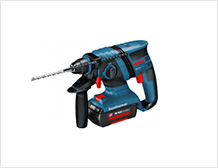
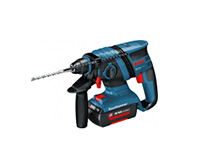
вставил картинки популярных товаров

Changed region(s): [[0.0, 0.0, 1.0, 1.0]]

diff --git a/index.html b/index.html
@@ -124,7 +124,7 @@
                 <a class="button-bookmark" href="#">В закладки</a>
               </p>
               <p class="catalog-item-image">
-                <img src="img/content/popular_items/1.jpg" width="185" height="164" alt="Перфоратор Bosch BFG 9000">
+                <img src="img/content/catalog_items/1.jpg" width="218" height="168" alt="Перфоратор Bosch BFG 9000">
               </p>
   			      <p class="old-price" aria-label="Старая цена">32500 Р.</p>
   			      <p class="price" aria-label="Текущая цена">25500 Р.</p>
@@ -138,7 +138,7 @@
               <a class="button-bookmark" href="#">В закладки</a>
             </p>
             <p class="catalog-item-image">
-              <img src="img/content/popular_items/2.jpg" width="127" height="112" alt="Перфоратор Bosch BFG 3000">
+              <img src="img/content/catalog_items/2.jpg" width="218" height="168" alt="Перфоратор Bosch BFG 3000">
             </p>
   			    <p class="old-price" aria-label="Старая цена">22500 Р.</p>
   			    <p class="price" aria-label="Текущая цена">15500 Р.</p>
@@ -152,7 +152,7 @@
               <a class="button-bookmark" href="#">В закладки</a>
             </p>
             <p class="catalog-item-image">
-                <img src="img/content/popular_items/3.jpg" width="144" height="128" alt="Перфоратор Bosch BFG 6000">
+                <img src="img/content/catalog_items/3.jpg" width="218" height="168" alt="Перфоратор Bosch BFG 6000">
             </p>
   	  		  <p class="old-price" aria-label="Старая цена">30500 Р.</p>
   		  	  <p class="price" aria-label="Новая цена">25500 Р.</p>
@@ -166,7 +166,7 @@
               <a class="button-bookmark" href="#">В закладки</a>
             </p>
             <p class="catalog-item-image">
-              <img src="img/content/popular_items/4.jpg" width="127" height="112" alt="Перфоратор Bosch BFG 2000">
+              <img src="img/content/catalog_items/4.jpg" width="218" height="168" alt="Перфоратор Bosch BFG 2000">
             </p>
   	  		  <p class="old-price visually-hidden"></p>
   		  	  <p class="price" aria-label="Текущая цена">12500 Р.</p>

diff --git a/css/style.css b/css/style.css
@@ -1136,6 +1136,10 @@ footer .wrapper {
   flex-wrap: wrap;
 }
 
+.popular-product-catalog img {
+
+}
+
 .catalog-item,
 .popular-product-item {
   position: relative;
@@ -1146,6 +1150,10 @@ footer .wrapper {
   padding-bottom: 10px;
   list-style: none;
   border: 1px solid #f6f6f6;
+}
+
+.popular-product-item:first-child {
+    margin-left: 0;
 }
 
 .catalog-item:hover,
